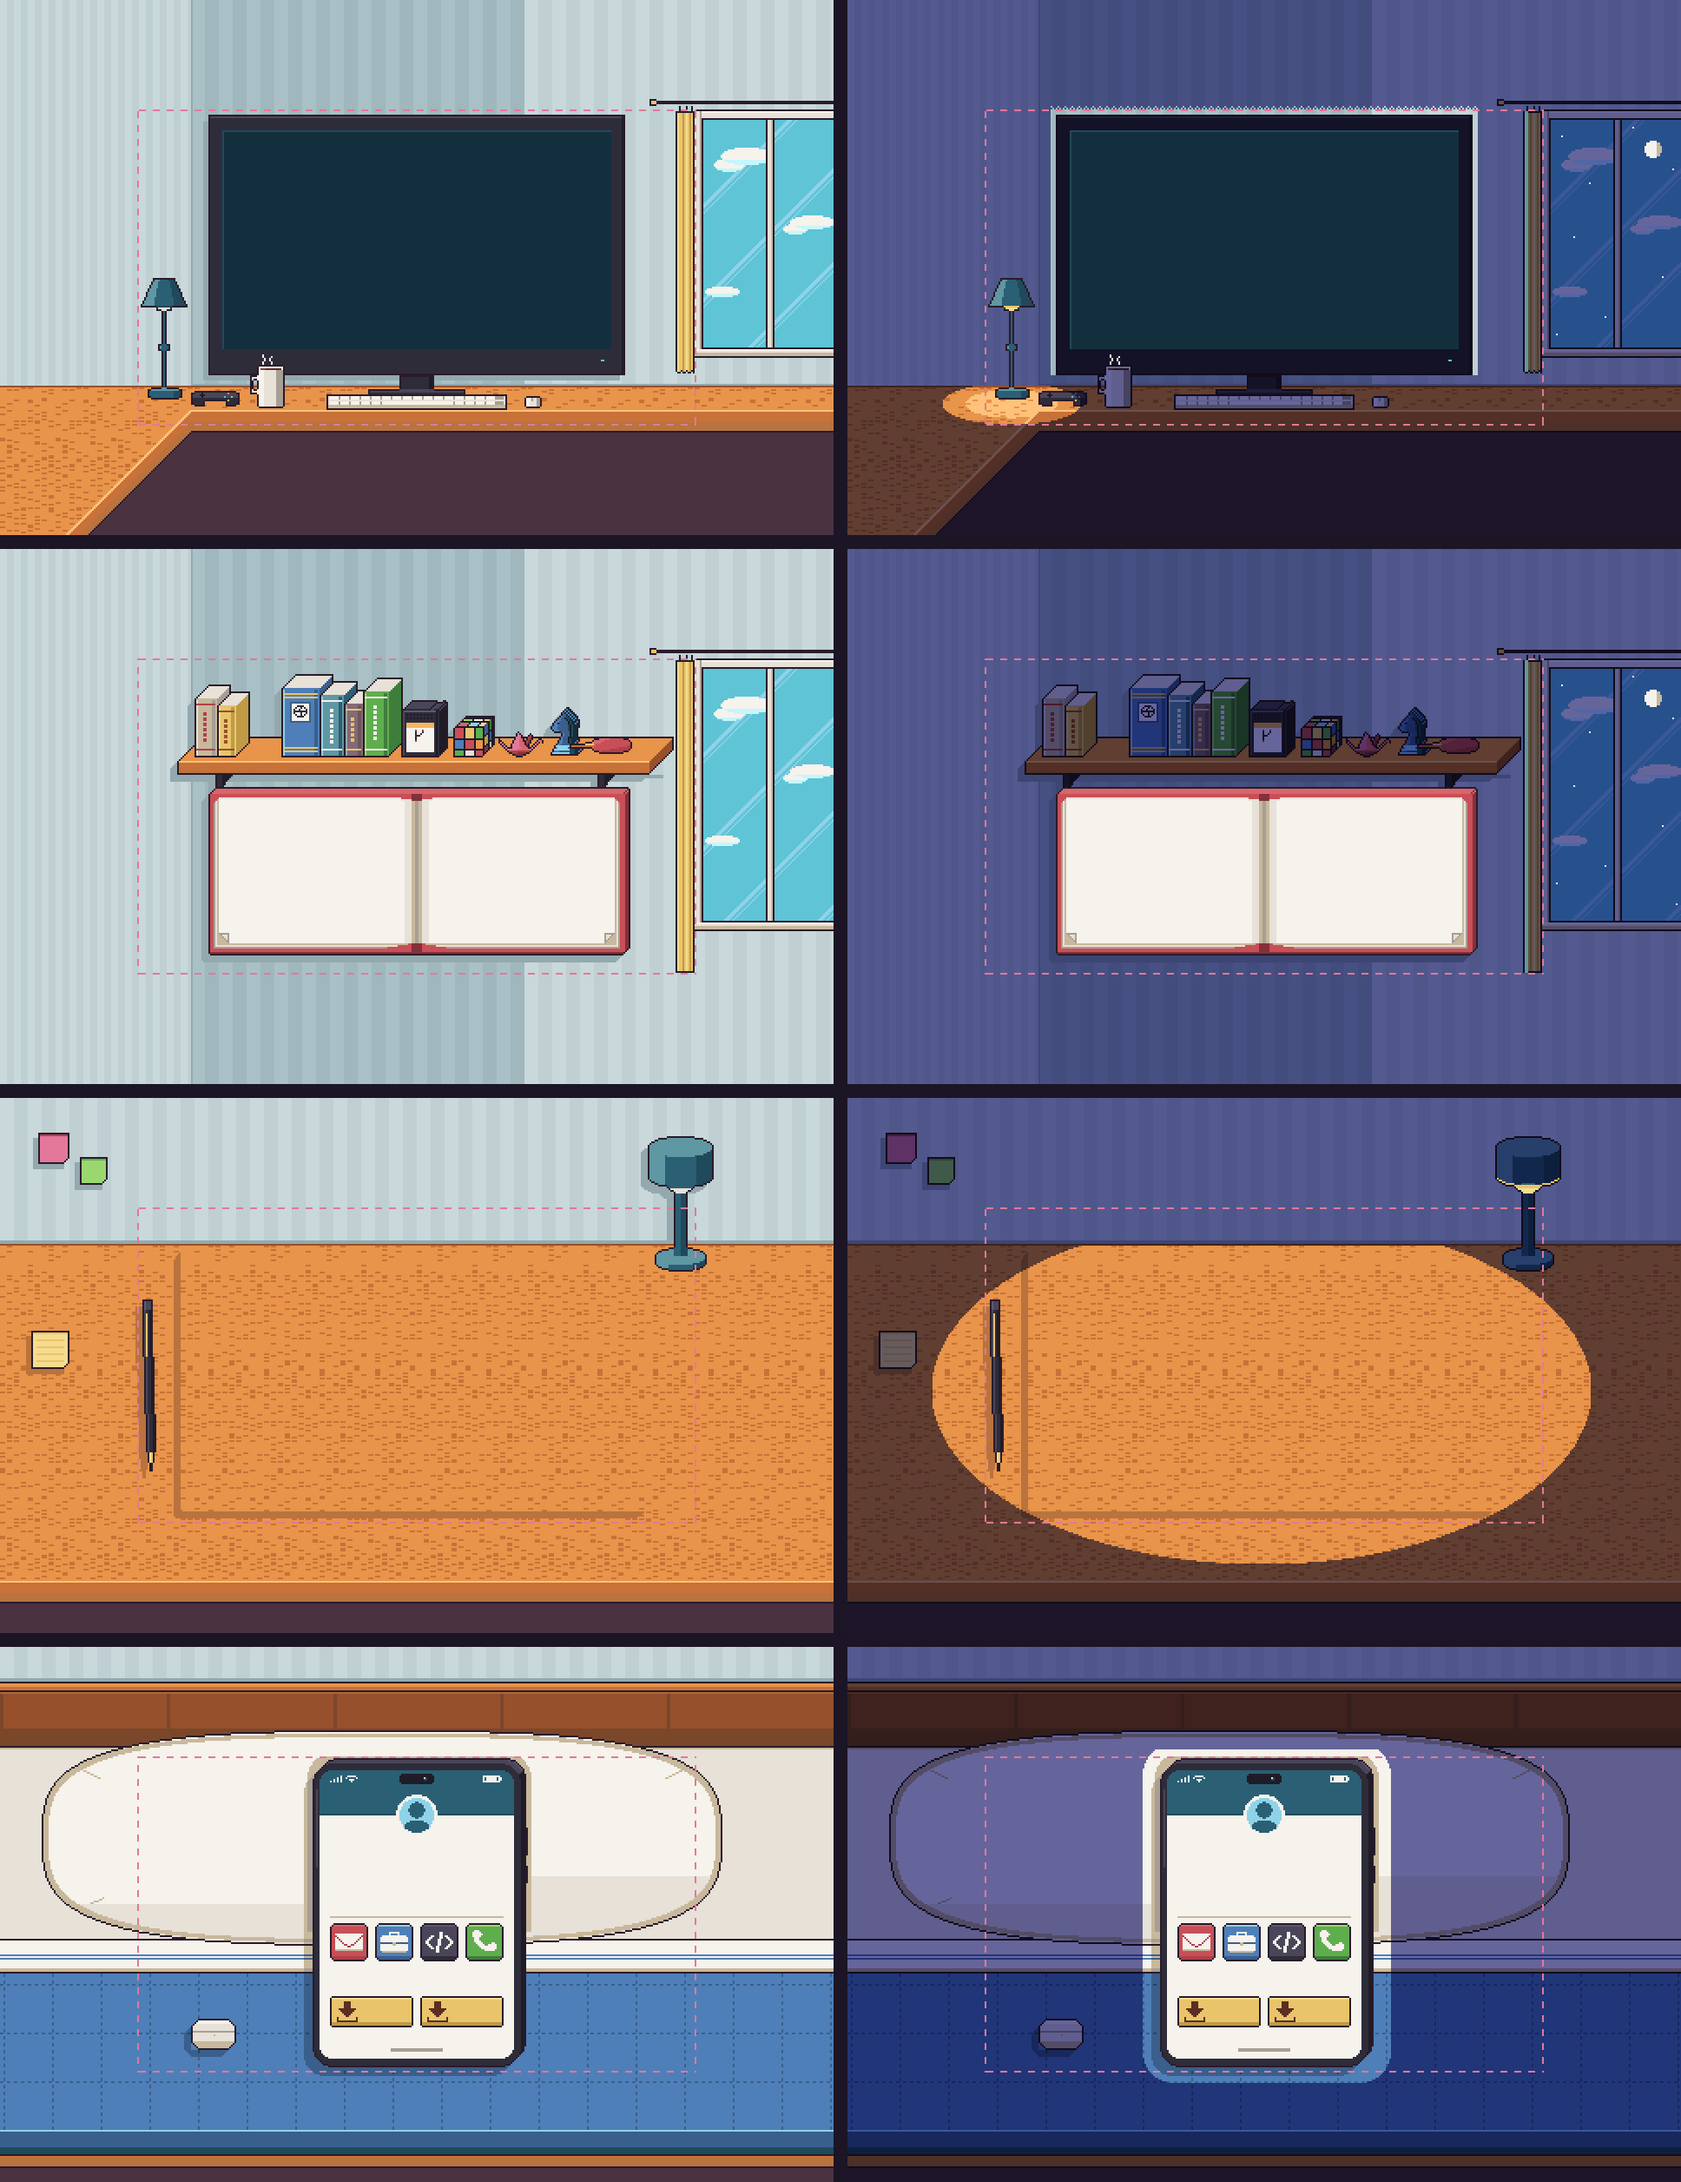
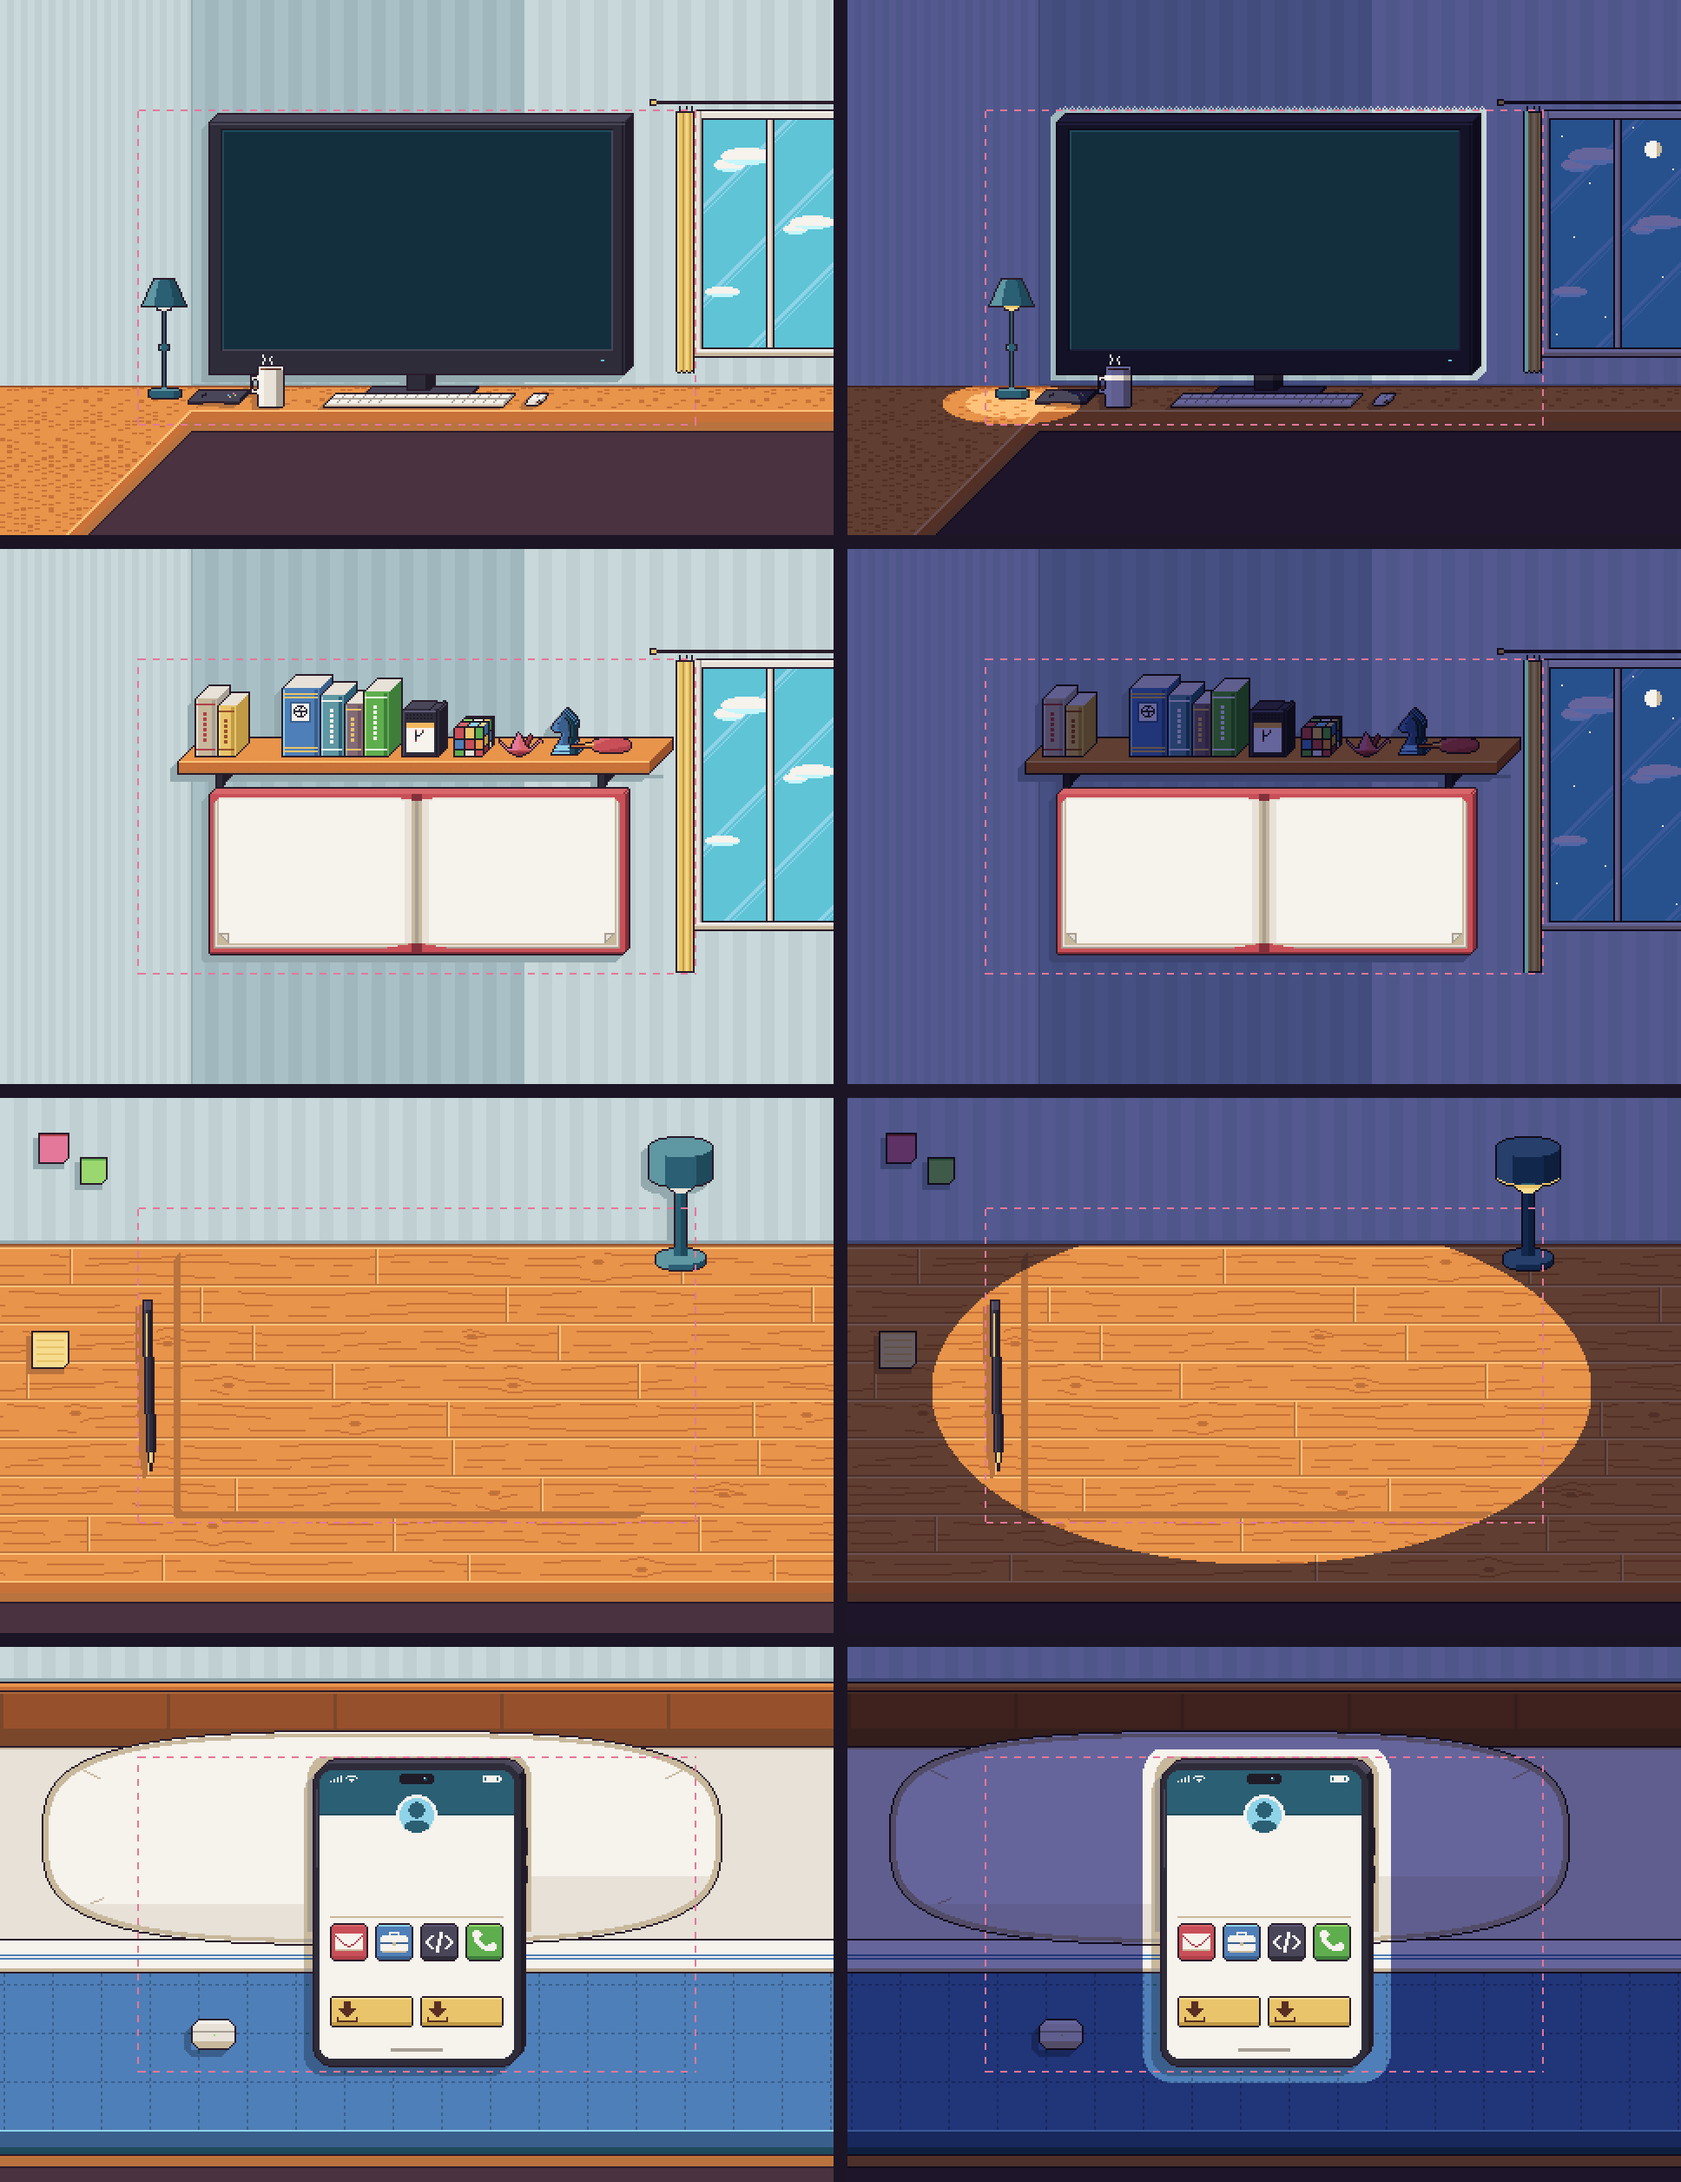
M3 – Visão de perto do computador em 3D, cama e mesa do caderno
- Computador (visão de perto): monitor, pé, teclado, mouse e controle em
  projeção oblíqua como na prateleira (topo + lateral), tela afundada na
  moldura, sombras na parede e no tampo; halo noturno acompanha a nova
  silhueta. Botão "Fechar (Esc)" no canto, como nas outras visões.
- Cama: cabeceira desenhada antes do colchão, que agora aparece inteiro
  embaixo do travesseiro.
- Caderno (visão de perto): tampo em tábuas com emendas, veios e nós.

diff --git a/src/ui/closeup/Closeup.tsx b/src/ui/closeup/Closeup.tsx
@@ -1,4 +1,5 @@
 import { useEffect, useMemo, useState, type CSSProperties, type ReactNode, type RefObject } from 'react'
+import { useTranslation } from 'react-i18next'
 import type { InteractableId } from '@/game/objects/registry'
 import { bleedStrips } from './bleed'
 import { useReducedMotion, useViewportSize } from './hooks'
@@ -14,6 +15,8 @@ interface CloseupProps {
   /** Atributos do diálogo (role, aria-*, tabIndex), definidos pelo PanelHost. */
   dialogProps: Record<string, unknown>
   onOutsideClick: () => void
+  /** Botão "Fechar (Esc)" no canto, como nas outras visões de perto. */
+  onClose: () => void
   children: ReactNode
 }
 
@@ -24,7 +27,8 @@ type CssVars = CSSProperties & Record<`--${string}`, string>
 // Visão de perto (ADR 0006): ilustração frontal em escala inteira cobrindo a janela inteira
 // (regra "cover" de layout.ts, com sangria esticando a borda da arte) e o painel dentro da área
 // de conteúdo, na mesma escala. Sem escala possível (celular): moldura 9-slice em tela cheia.
-export function Closeup({ id, dialogRef, dialogProps, onOutsideClick, children }: CloseupProps) {
+export function Closeup({ id, dialogRef, dialogProps, onOutsideClick, onClose, children }: CloseupProps) {
+  const { t } = useTranslation()
   const sheet = useCloseupSheet(id)
   const vp = useViewportSize()
   const reduced = useReducedMotion()
@@ -137,6 +141,10 @@ export function Closeup({ id, dialogRef, dialogProps, onOutsideClick, children }
         className={`closeup__screen${booting ? ' closeup__screen--booting' : ''}`}
         style={screenStyle}
       >
+        {/* Dentro do diálogo (foco preso), mas fixo no canto da janela, fora da tela do monitor. */}
+        <button type="button" className="pixel-btn closeup__close" onClick={onClose}>
+          {t('hud.close')}
+        </button>
         {children}
       </div>
     </div>

diff --git a/src/ui/panels/PanelHost.tsx b/src/ui/panels/PanelHost.tsx
@@ -108,7 +108,7 @@ export function PanelHost() {
   // Objetos com visão de perto: ilustração frontal + painel dentro da área de conteúdo.
   if (CLOSEUPS[openId]) {
     return (
-      <Closeup key={openId} id={openId} dialogRef={dialogRef} dialogProps={dialogProps} onOutsideClick={closePanel}>
+      <Closeup key={openId} id={openId} dialogRef={dialogRef} dialogProps={dialogProps} onOutsideClick={closePanel} onClose={closePanel}>
         {content}
       </Closeup>
     )

diff --git a/src/app/global.css b/src/app/global.css
@@ -226,6 +226,7 @@ html, body, #root { margin: 0; height: 100%; overflow: hidden; }
 }
 .closeup__screen:focus-visible { box-shadow: inset 0 0 0 3px var(--cyan); }
 .closeup__screen > * { flex: 1; min-height: 0; }
+.closeup__screen > .closeup__close { position: fixed; top: 16px; left: 16px; z-index: 3; flex: none; }
 .closeup__screen--booting > * { opacity: 0; }
 .closeup--fallback .closeup__screen {
   inset: 0;
